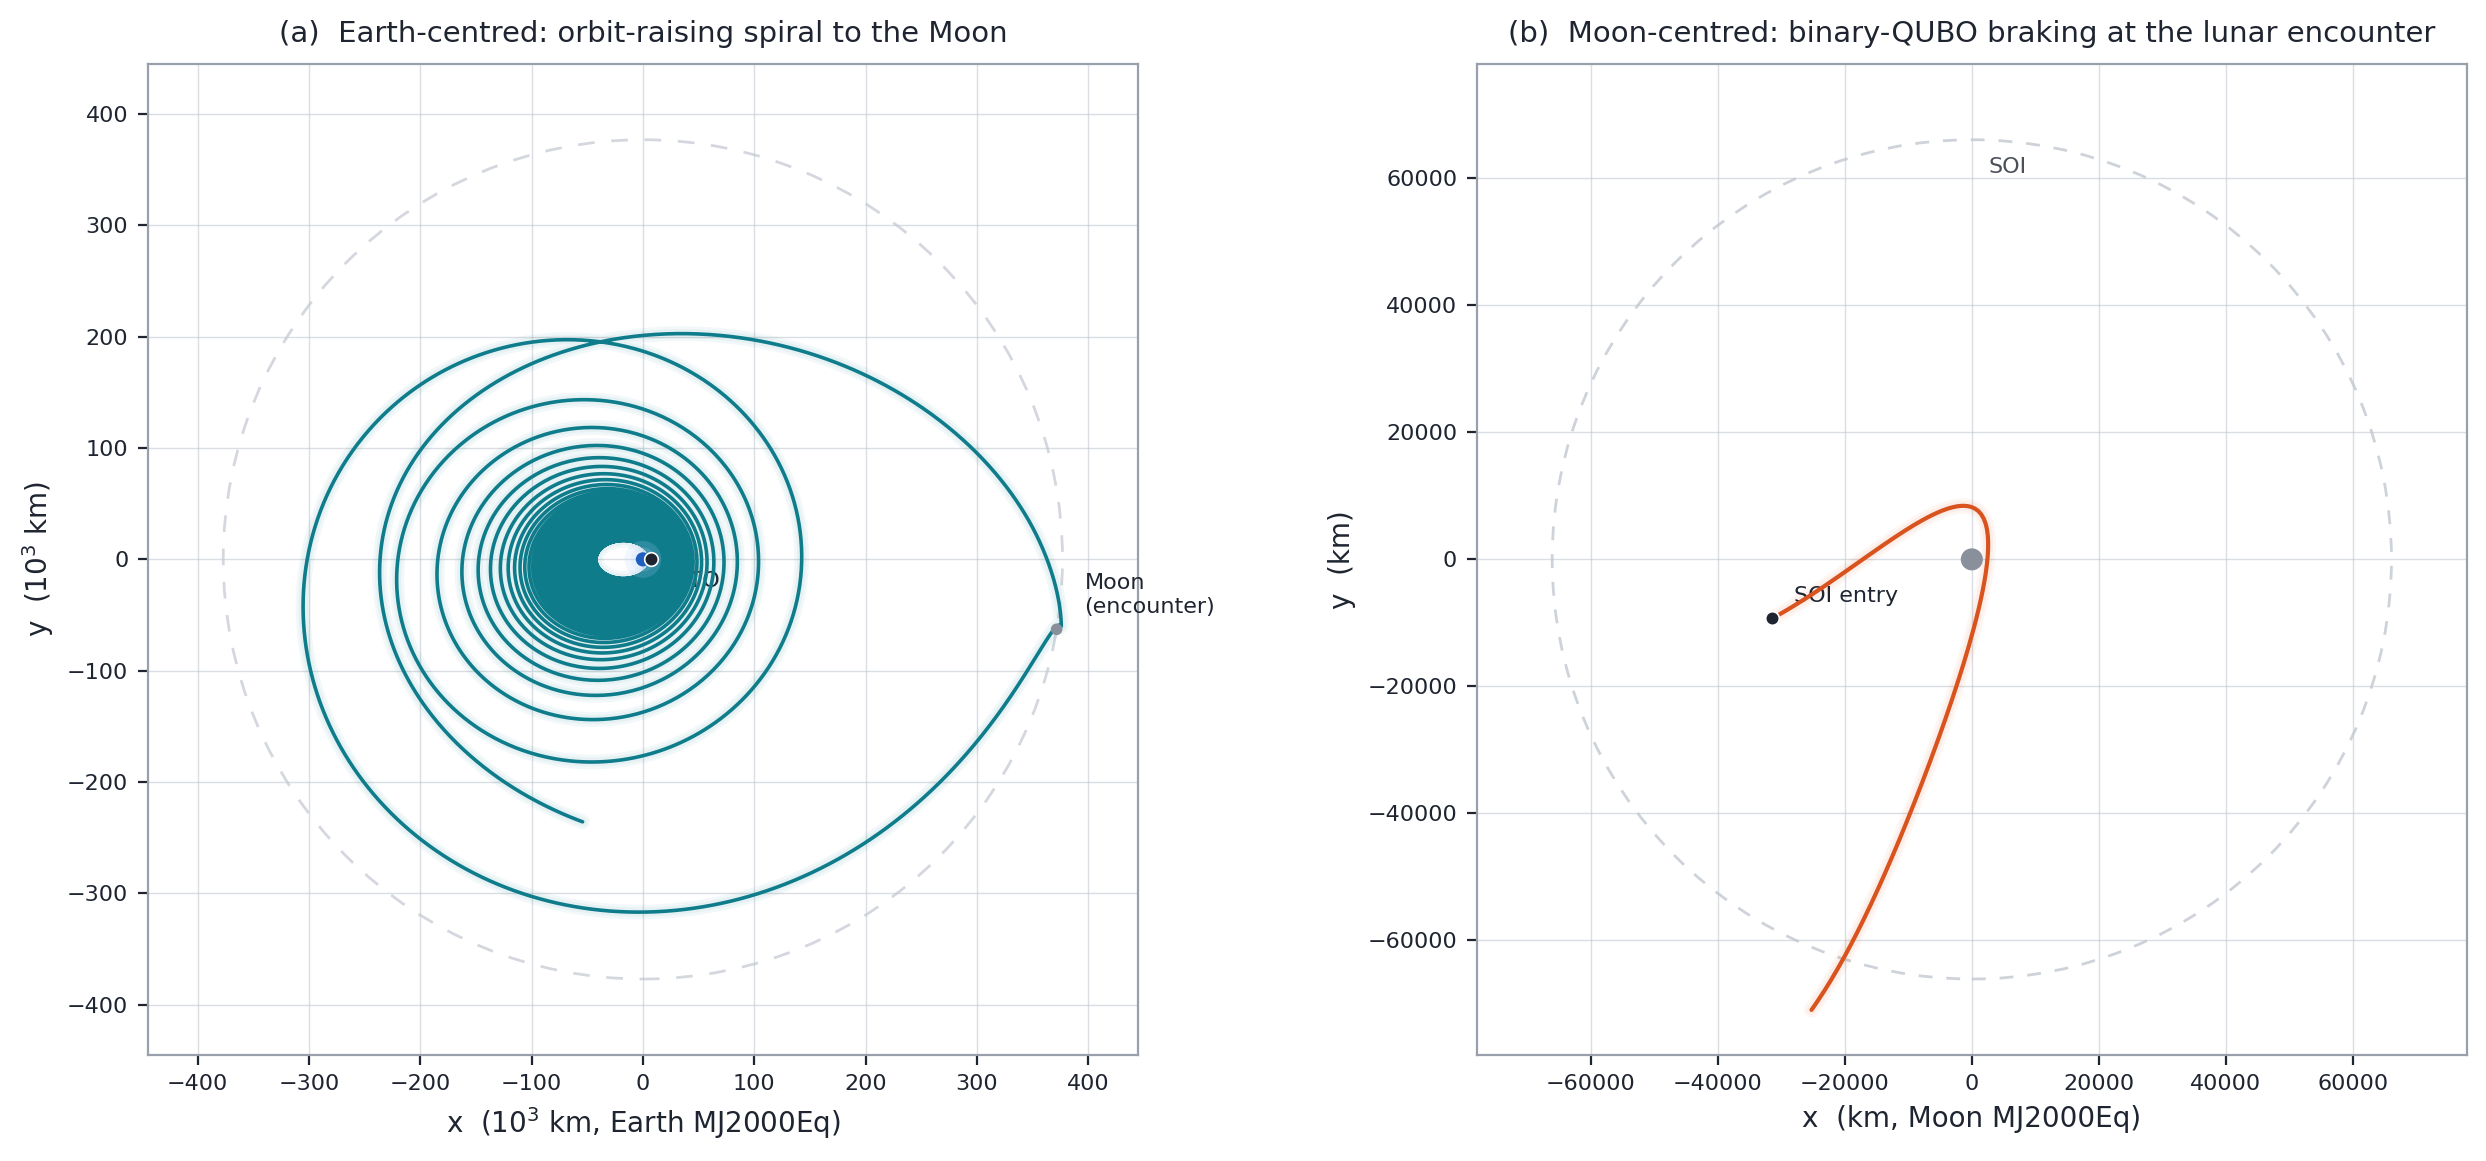
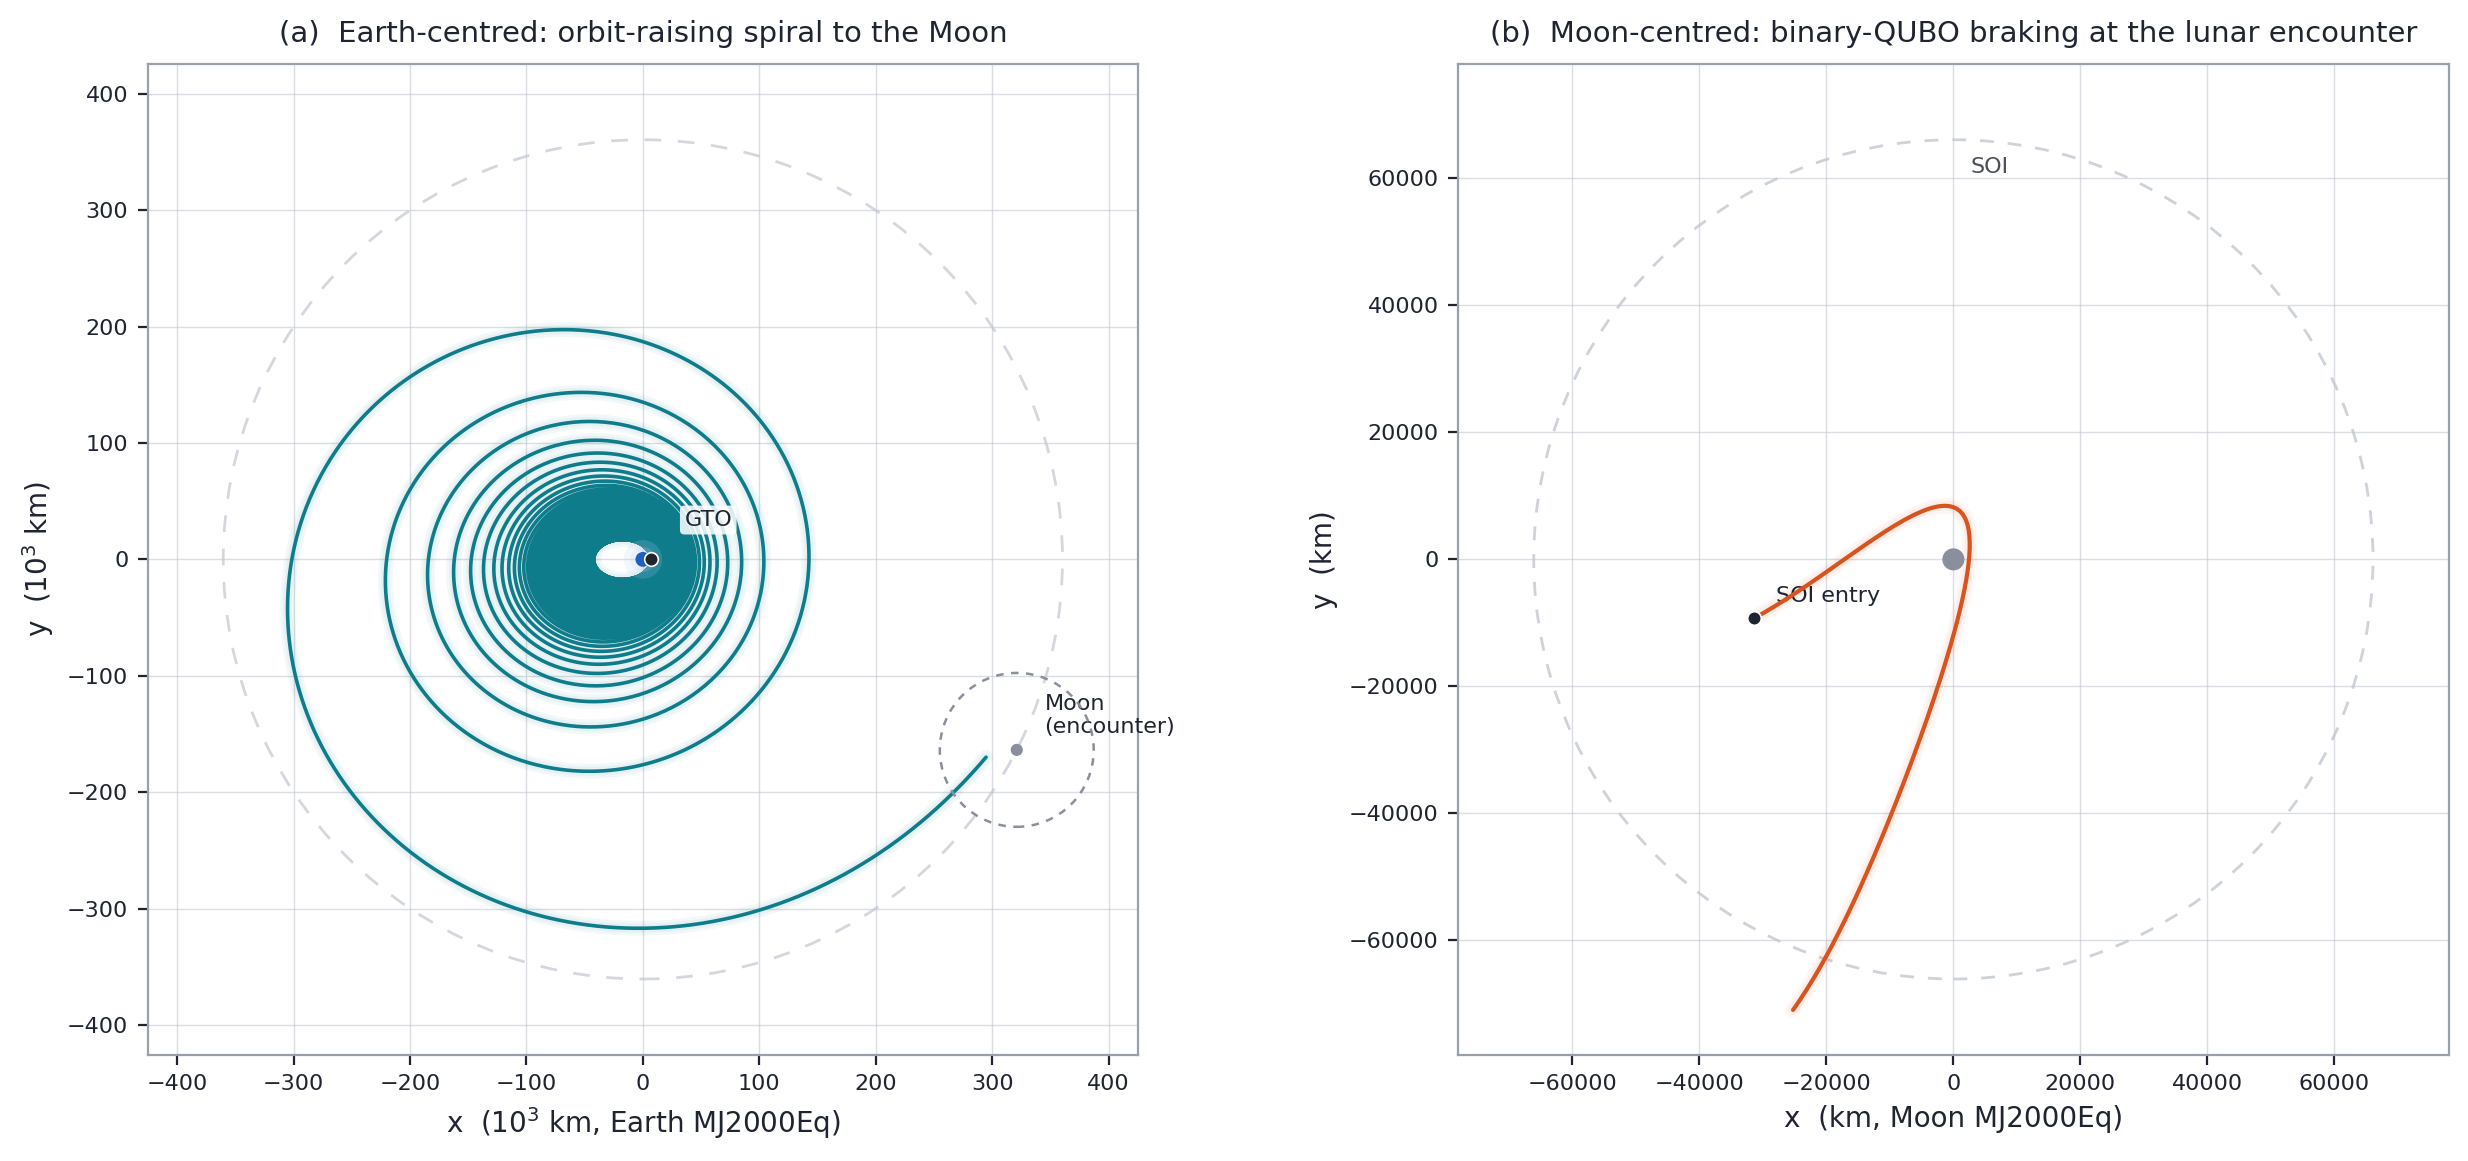
SMART-1 figure: stop the Earth-centred trace at the lunar SOI entry
After the encounter the spacecraft is not held by the Moon, and its
Earth-relative path read as a return to an Earth orbit. Panel (a) now ends
at the SOI entry and marks the SOI around the Moon; panel (b) still shows
the braking and the exit. Replotted from the cached ephemeris, no GMAT run.
The GTO label gets a white background so the spiral does not hide it.

diff --git a/scripts/run_smart1_trajectory_figure.py b/scripts/run_smart1_trajectory_figure.py
@@ -249,21 +249,27 @@ def _plot(data: np.ndarray) -> None:
     fig.patch.set_facecolor(C_BG)
 
     # ---------- (a) Earth-centred inertial ----------
+    # The trace stops at the lunar SOI entry: after the encounter the spacecraft
+    # is not held by the Moon, and drawing its Earth-relative path would read as
+    # a return to an Earth orbit. Panel (b) shows what happens inside the SOI.
     xe, ye = sat_e[:, 0] * 1e-3, sat_e[:, 1] * 1e-3      # 1000 km units
     mxe, mye = moon_e[:, 0] * 1e-3, moon_e[:, 1] * 1e-3
     _style_axes(axA)
-    # lunar orbit reference ring + Moon at encounter (closest approach)
-    enc = int(np.argmin(np.linalg.norm(sat_m, axis=1)))
+    rm_all = np.linalg.norm(sat_m, axis=1)
+    enc = int(np.argmax(rm_all < MOON_SOI_KM))           # first sample inside the SOI
     r_moon = np.hypot(mxe[enc], mye[enc])
     axA.add_patch(plt.Circle((0, 0), r_moon, fill=False, ec=C_FAINT, ls=(0, (6, 6)),
                              lw=1.0, alpha=0.7, zorder=2))
-    _glow(axA, xe, ye, C_SPIRAL, lw=1.3, zorder=3)
+    axA.add_patch(plt.Circle((mxe[enc], mye[enc]), MOON_SOI_KM * 1e-3, fill=False,
+                             ec=C_MOON, ls=(0, (3, 3)), lw=0.9, zorder=6))
+    _glow(axA, xe[:enc + 1], ye[:enc + 1], C_SPIRAL, lw=1.3, zorder=3)
     _disk(axA, 0, 0, EARTH_RADIUS_KM * 1e-3, C_EARTH, glow=C_EARTH_GLOW, zorder=8)
     _disk(axA, mxe[enc], mye[enc], MOON_RADIUS_KM * 1e-3 * 3.0, C_MOON, zorder=7)
     axA.scatter([xe[0]], [ye[0]], s=24, color=C_TEXT, edgecolors="white",
                 lw=0.6, zorder=9)
     axA.annotate("GTO", (xe[0], ye[0]), textcoords="offset points",
-                 xytext=(8, -10), color=C_TEXT, fontsize=8)
+                 xytext=(12, 12), color=C_TEXT, fontsize=8, zorder=10,
+                 bbox=dict(boxstyle="round,pad=0.2", fc="white", ec="none", alpha=0.85))
     axA.annotate("Moon\n(encounter)", (mxe[enc], mye[enc]),
                  textcoords="offset points", xytext=(10, 6),
                  color=C_TEXT, fontsize=8)
